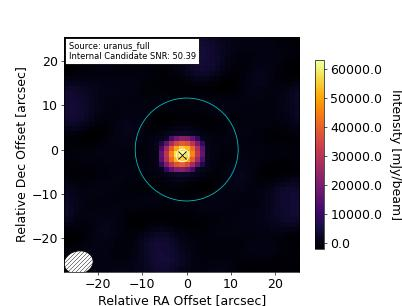
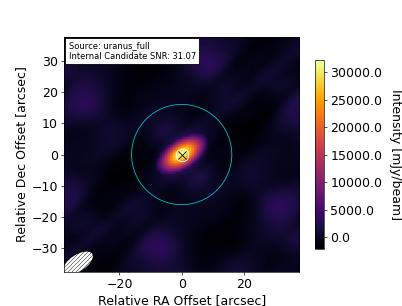
more testing

diff --git a/html/source_info.html b/html/source_info.html
@@ -12,7 +12,7 @@
     }
     </style>
     <body>
-    <p class='centered-large-text'>Source Information for 250127_03:45:18 (ObsID 00000) </p><table border="1" class="dataframe">
+    <p class='centered-large-text'>Source Information for 250128_07:51:36 (ObsID 00000) </p><table border="1" class="dataframe">
   <thead>
     <tr style="text-align: right;">
       <th></th>
@@ -26,27 +26,27 @@
     </tr>
     <tr>
       <th>target_dir</th>
-      <td>/sma/data/science/mir_data/250127_03:45:18</td>
+      <td>/sma/data/science/mir_data/250128_07:51:36</td>
     </tr>
     <tr>
       <th>sciTargs</th>
-      <td>0222+430</td>
-    </tr>
-    <tr>
-      <th>gainCals</th>
-      <td>0418+380</td>
-    </tr>
-    <tr>
-      <th>fluxCals</th>
       <td></td>
     </tr>
     <tr>
+      <th>gainCals</th>
+      <td></td>
+    </tr>
+    <tr>
+      <th>fluxCals</th>
+      <td>Uranus</td>
+    </tr>
+    <tr>
       <th>bpCals</th>
-      <td>3c84, 3C84</td>
+      <td>3c84</td>
     </tr>
     <tr>
       <th>polCals</th>
-      <td>3C84_LR</td>
+      <td></td>
     </tr>
     <tr>
       <th>selfCals</th>
@@ -54,7 +54,7 @@
     </tr>
     <tr>
       <th>otherCals</th>
-      <td>0423-013, 0433+053, 0509+056</td>
+      <td></td>
     </tr>
     <tr>
       <th>deadList</th>
@@ -81,46 +81,15 @@
         <img src='./3c84_full_rb5.0_et0.001.jpg'>
         <br>
         
-        <img src='./3c84_lr_full_rb5.0_et0.001.jpg'>
-        <br>
-        
-        <img src='./0222+430_full_rb5.0_et0.001.jpg'>
-        <br>
-        
-        <img src='./0418+380_full_rb5.0_et0.001.jpg'>
+        <img src='./uranus_full_rb5.0_et0.001.jpg'>
         <br>
         <table border="1" class="dataframe">
   <thead>
     <tr style="text-align: right;">
       <th></th>
-      <th>field_name</th>
-      <th>obs_date_time</th>
-      <th>file_name</th>
-      <th>beam_maj_axis</th>
-      <th>beam_min_axis</th>
-      <th>beam_pos_angle</th>
-      <th>flux_uncertainty</th>
-      <th>flux_density</th>
-      <th>coord_ra</th>
-      <th>coord_dec</th>
-      <th>internal</th>
     </tr>
   </thead>
   <tbody>
-    <tr>
-      <th>source_1</th>
-      <td>0222+430</td>
-      <td>6-13-25 12:52:8</td>
-      <td>0222+430_full.fits</td>
-      <td>12.991 arcsec</td>
-      <td>6.334 arcsec</td>
-      <td>134.0 deg</td>
-      <td>10.689 mJy</td>
-      <td>289.003 mJy</td>
-      <td>35.665 deg</td>
-      <td>43.035 deg</td>
-      <td>True</td>
-    </tr>
   </tbody>
 </table>
     </body>
